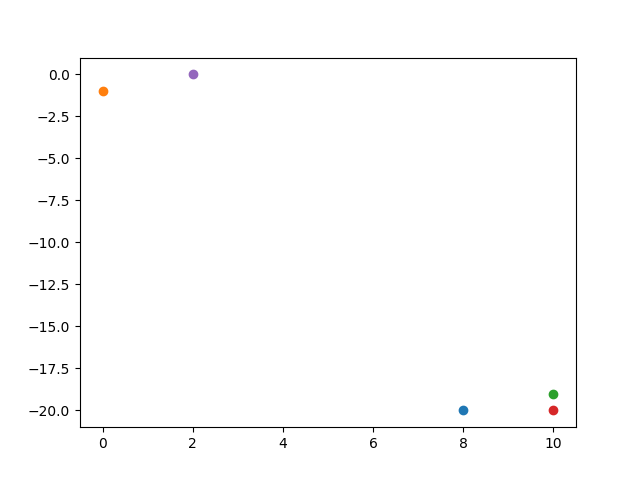
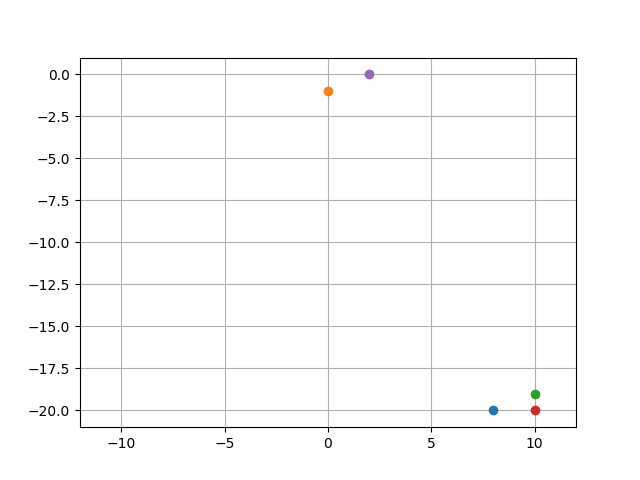
PR2 -> Done

diff --git a/P2/practice2.py b/P2/practice2.py
@@ -3,7 +3,7 @@ from matplotlib import pyplot as plt
 
 
 def k1(x1, x2):
-    return np.sqrt((x1[0] - x2[0]) ** 2 + (x1[1] - x2[1]) ** 2)
+    return (x1[0] - x2[0]) ** 2 + (x1[1] - x2[1]) ** 2
     pass
 
 
@@ -15,6 +15,7 @@ for x in X:
     plt.plot(x[0], x[1], "o")
 plt.xlim(0, 5)
 plt.ylim(0, 5)
+plt.grid()
 plt.savefig("test.png")
 plt.close()
 
@@ -36,4 +37,37 @@ cov_matrix = np.cov(np.array([x[0] for x in D]), np.array([x[1] for x in D]))
 print(cov_matrix)
 for x in D:
     plt.plot(x[0], x[1], "o")
-    plt.savefig("test2.png")
+plt.xlim(-12, 12)
+plt.grid()
+plt.savefig("test2.png")
+plt.close()
+
+print("Eigenvalues", end=" ")
+print(str(np.linalg.eigvals(cov_matrix)))
+
+print("Corr matrix")
+print(np.corrcoef(np.array([x[0] for x in D]), np.array([x[1] for x in D])))
+
+# part 3
+print("Part 3")
+X = D - np.mean(D, 0)
+print(X)
+for x in X:
+    plt.plot(x[0], x[1], "o")
+plt.xlim(-12, 12)
+plt.grid()
+plt.savefig("test3.png")
+plt.close()
+
+eigen_values, eigen_vectors = np.linalg.eig(cov_matrix)
+print("Main components", end=" ")
+print(eigen_vectors)
+
+print("Residual variance", end=" ")
+print(eigen_values)
+
+print("First component projection", end=" ")
+print(np.dot(X, eigen_vectors[:, 0]))
+
+print("Second component projection", end=" ")
+print(np.dot(X, eigen_vectors[:, 1]))
